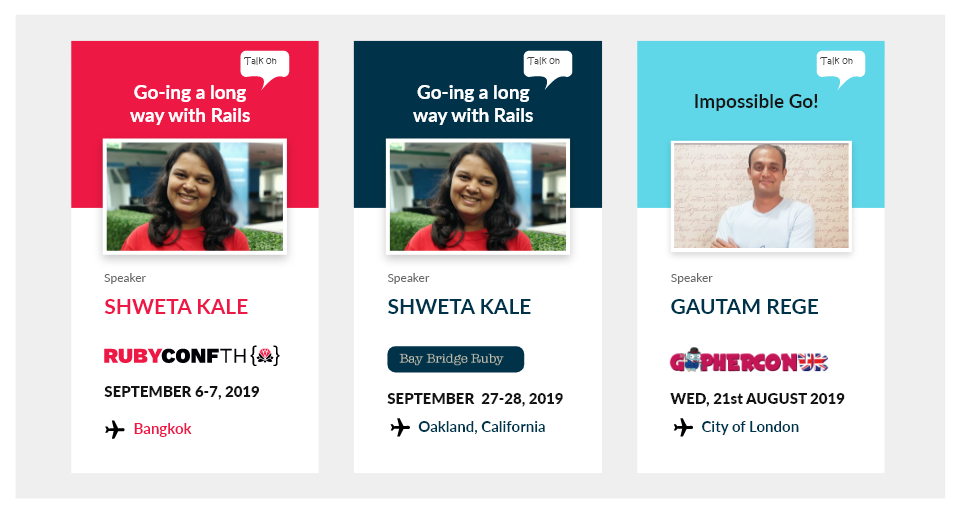
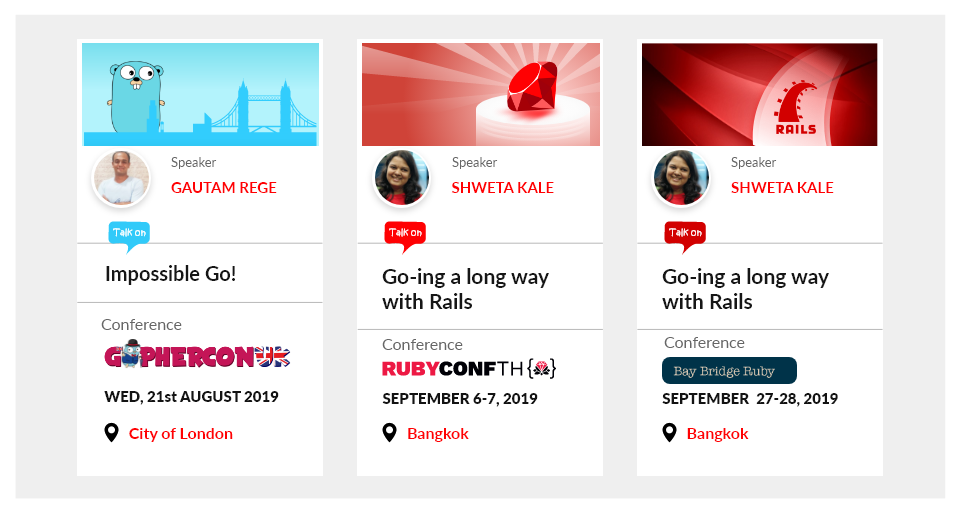
[#168160770] Updated: trending images.

diff --git a/src/components/home/trending.js b/src/components/home/trending.js
@@ -60,7 +60,7 @@ const Trending = (props) => {
       {matches =>
         matches ? <img src={require(`../../assets/images/home/${cItem.image}_mb.png`)}
           className="img-fluid mt-2" alt="what's new?" />
-          : <Row className="justify-content-around m-auto w-100 d-flex">
+          : <Row className="justify-content-around m-auto w-75 d-flex">
             <Col>
               <img src={require(`../../assets/images/home/${cItem.image}.png`)}
                 className=" img-fluid mt-5" alt="what's new?" />
@@ -82,9 +82,9 @@ const Trending = (props) => {
         </Col>
       </Row >
       <img src={require(`../../assets/images/home/Close.png`)}
-            className="img-fluid cursor-pointer close-button"
-            onClick={setOpenTrending}
-            alt="Close" />
+        className="img-fluid cursor-pointer close-button"
+        onClick={setOpenTrending}
+        alt="Close" />
     </>
   )
 
@@ -135,6 +135,12 @@ Trending.defaultProps = {
     {
       image: "conference",
       name: "Shweta Kale",
+      title: "Speaker at Go-pher Conference",
+      subTitle: "Sample Text, U.K."
+    },
+    {
+      image: "conference_2",
+      name: "Anusha Bhat",
       title: "Speaker at Go-pher Conference",
       subTitle: "Sample Text, U.K."
     }

diff --git a/src/assets/stylesheets/pages/_home.scss b/src/assets/stylesheets/pages/_home.scss
@@ -817,6 +817,14 @@
   height: 40px !important;
 }
 
+.slick-prev {
+  left: 0 !important;
+}
+
+.slick-next {
+  right: 0 !important;
+}
+
 .size-30 {
   width: 30px;
   height: 30px;
@@ -843,6 +851,7 @@
 
 .close-button {
   position: absolute;
-  top: 0;
-  right: 0;
+  top: 2%;
+  right: 2%;
+  overflow: auto;
 }
